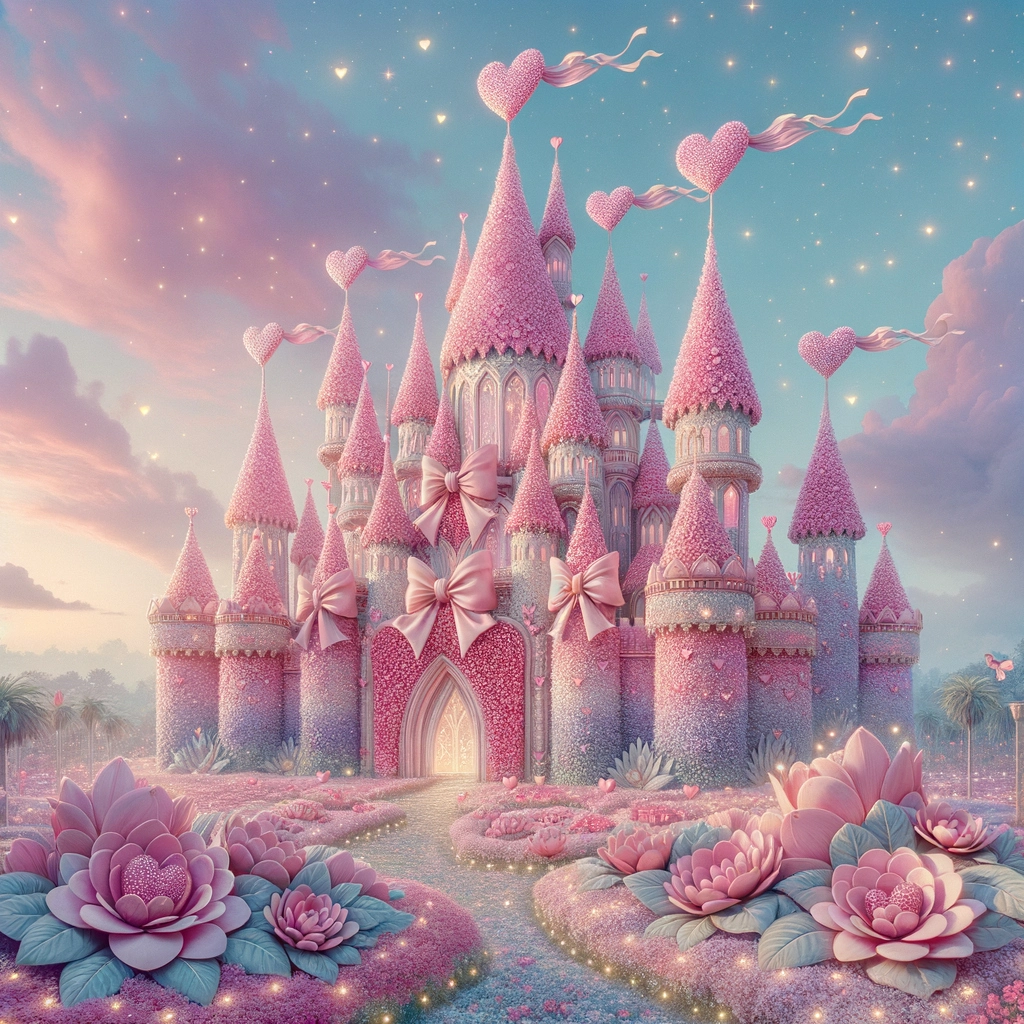
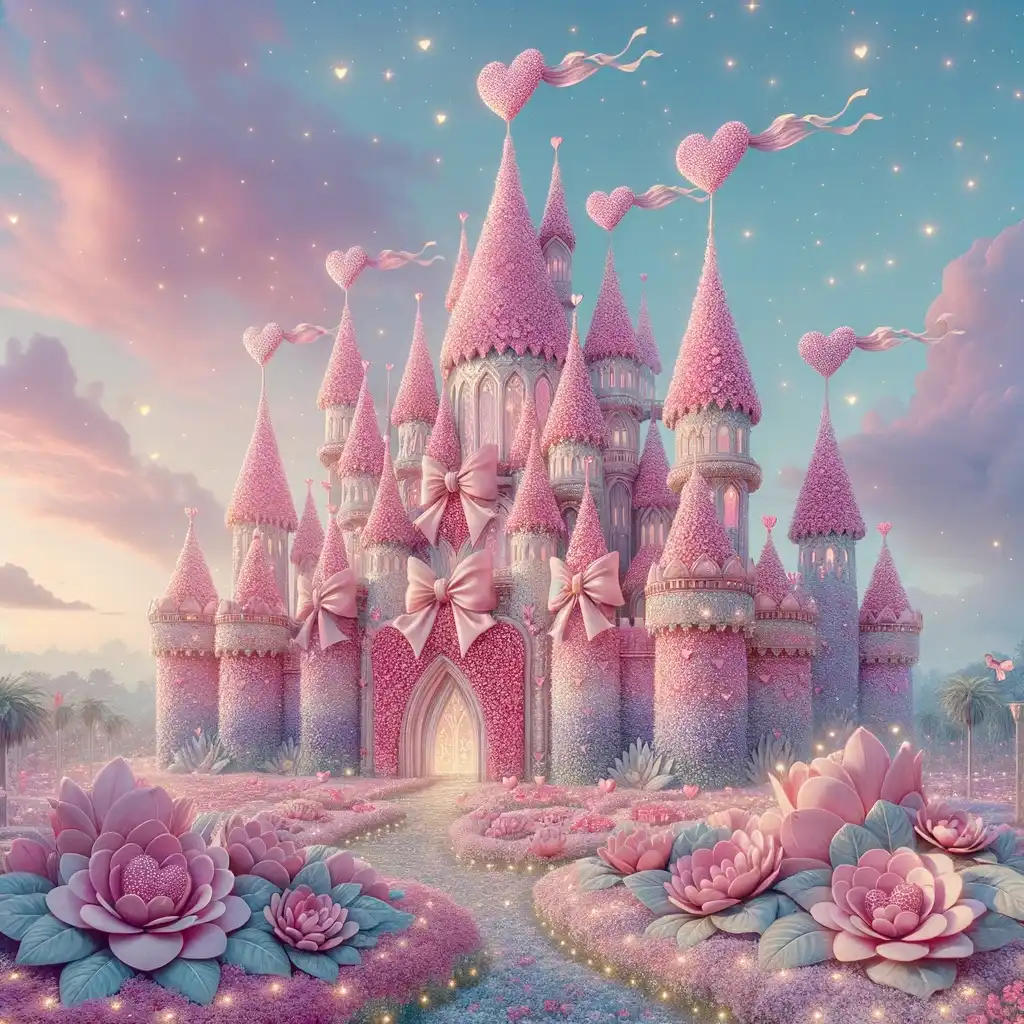
update debugz 7:34PM 3/9/2025

diff --git a/src/Welcome.jsx b/src/Welcome.jsx
@@ -4,14 +4,6 @@ import './Welcome.css';
 
 export default function Welcome() {
   const [sparkles, setSparkles] = useState([]);
-  const [backgroundLoaded, setBackgroundLoaded] = useState(false);
-
-  // Preload Background Image
-  useEffect(() => {
-    const img = new Image();
-    img.src = '/cotton-candy-castle.webp';
-    img.onload = () => setBackgroundLoaded(true);
-  }, []);
 
   useEffect(() => {
     const handleMouseMove = (e) => {
@@ -34,19 +26,31 @@ export default function Welcome() {
 
   return (
     <div className="welcome-container">
+      {/* ✅ LCP-Optimized Image (Replaces background-image) */}
+      <img 
+        src="/cotton-candy-castle.webp" 
+        alt="Cotton Candy Castle" 
+        className="background-image"
+        width="1920"
+        height="1080"
+        loading="eager"
+        fetchpriority="high"
+      />
+
       {/* Hero Section */}
       <div className="hero-section">
         <h1 className="hero-title">Jaqueline Smith 💖</h1>
         <p className="hero-subtitle">✨ Software Engineer | Full-Stack Magic | React & Firebase ✨</p>
         <p className="hero-description">
-            I craft dreamy, high-performance applications with beautiful UI/UX & seamless functionality.
-            Passionate about building delightful user experiences that feel as magical as they look! 🎀
+          I craft dreamy, high-performance applications with beautiful UI/UX & seamless functionality.
+          Passionate about building delightful user experiences that feel as magical as they look! 🎀
         </p>
         <Link to="/projects" className="cta-button">
           See My Creations ✨
         </Link>
       </div>
 
+      {/* Sparkle Effect */}
       {sparkles.map((sparkle) => (
         <div
           key={sparkle.id}
@@ -60,14 +64,6 @@ export default function Welcome() {
         </div>
       ))}
 
-      {/* Background Image Lazy Loaded */}
-      {backgroundLoaded && (
-        <div 
-          className="background-image"
-          style={{ backgroundImage: `url('/cotton-candy-castle.webp')` }}
-        />
-      )}
-
       <div className="floating-hearts">
         {'💖💝💕'.split('').map((heart, i) => (
           <div key={i} className="floating-heart" style={{ animationDelay: `${i * 0.5}s` }}>
@@ -78,5 +74,7 @@ export default function Welcome() {
     </div>
   );
 }
+
+
 
 
